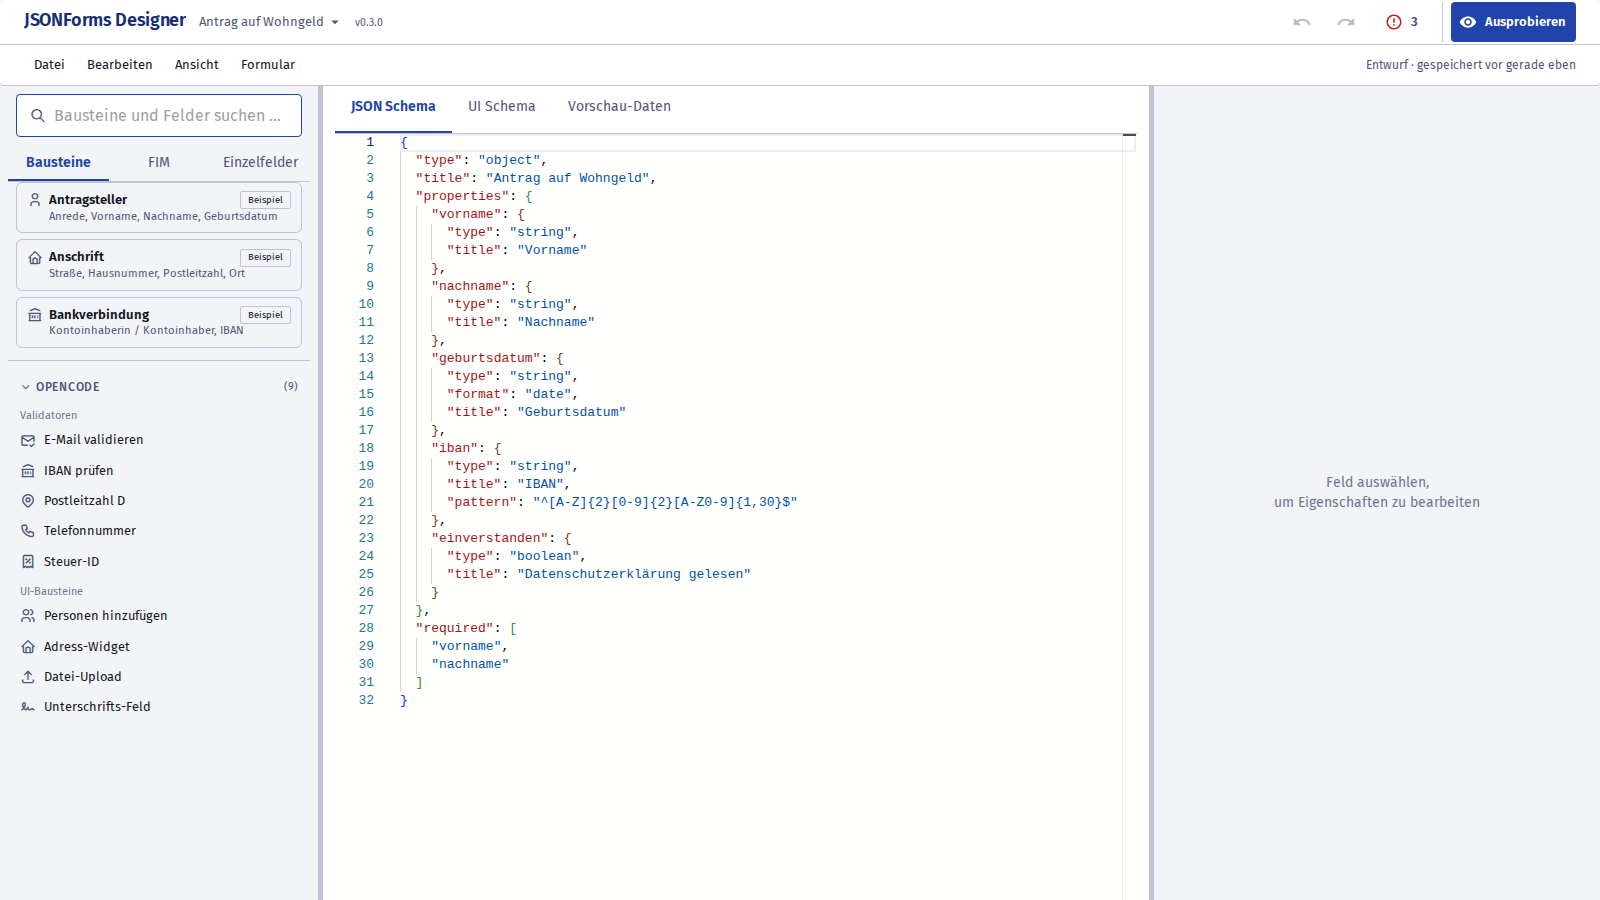
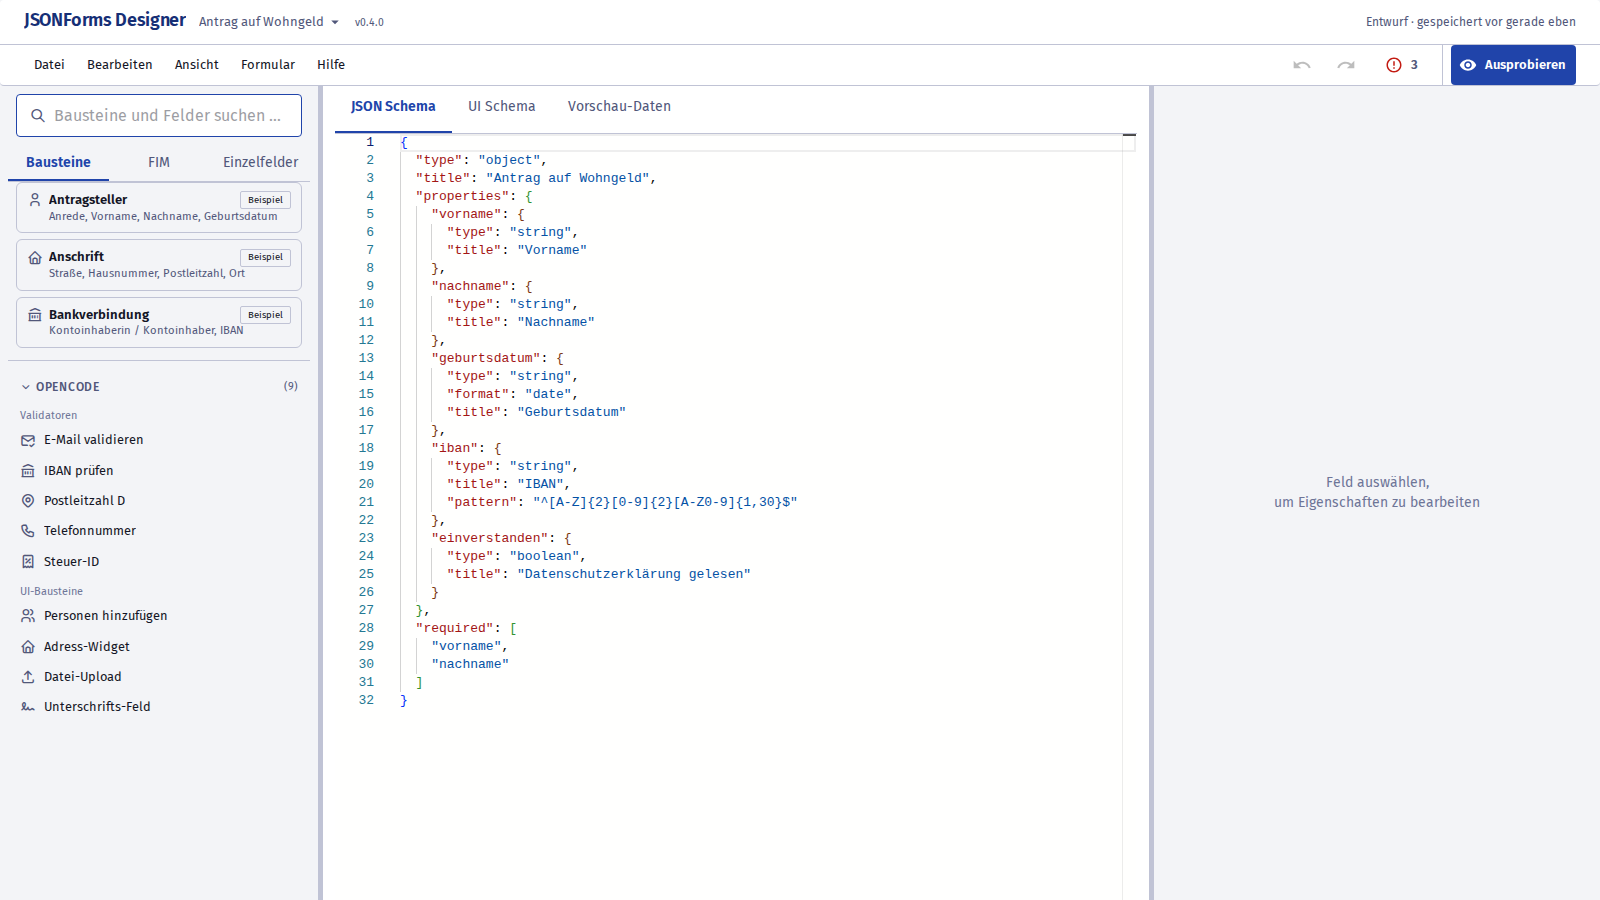
docs: Screenshots neu erzeugt, Befehlsleiste in README und CHANGELOG
Screenshots für Stand 0.4.0 mit dem Playwright-Generator (Chromium)
neu erzeugt. README: Versions- und TypeScript-Badge aktualisiert,
Befehlsleiste mit Hover-Menüs in der Funktionsübersicht. CHANGELOG:
Hover-Menüs unter [Unreleased].

Changed region(s): [[0.8438, 0.0, 1.0, 0.0933], [0.1875, 0.0622, 0.2188, 0.0933]]

diff --git a/README.md b/README.md
@@ -5,10 +5,10 @@
 **Visueller Formular-Editor für JSON Schema & JSONForms UI Schema**
 
 [![License: MIT](https://img.shields.io/badge/license-MIT-blue.svg)](./LICENSE)
-[![Version](https://img.shields.io/badge/version-0.2.0-brightgreen.svg)](./packages/editor/package.json)
+[![Version](https://img.shields.io/badge/version-0.4.0-brightgreen.svg)](./packages/editor/package.json)
 [![Changelog](https://img.shields.io/badge/changelog-📋-lightgrey)](./CHANGELOG.md)
 [![React](https://img.shields.io/badge/React-19-61DAFB?logo=react)](https://react.dev)
-[![TypeScript](https://img.shields.io/badge/TypeScript-5-3178C6?logo=typescript)](https://www.typescriptlang.org)
+[![TypeScript](https://img.shields.io/badge/TypeScript-6-3178C6?logo=typescript)](https://www.typescriptlang.org)
 [![MUI](https://img.shields.io/badge/MUI-7-007FFF?logo=mui)](https://mui.com)
 
 *JSONForms-kompatible Formulare werden ohne Schema-Vorkenntnisse per Drag & Drop erstellt und bearbeitet.*
@@ -40,6 +40,7 @@ JSONForms Designer ist ein React-basierter Formular-Editor, der nach dem **Form-
 | **Formular-Metadaten** | Titel, Behörde, Rechtsgrundlage, Versionsnummer, Gültigkeitsdatum |
 | **Mehrsprachigkeit (Inhalt)** | Feldbezeichnungen, Hilfetexte und Platzhalter werden pro Sprache (EN/FR/PL/TR/AR/UK) hinterlegt |
 | **Modi** | Visuell · Code (Monaco) · Vorschau — alle bidirektional synchronisiert |
+| **Befehlsleiste** | Menüs Datei · Bearbeiten · Ansicht · Formular · Hilfe öffnen beim Überfahren mit der Maus; Klick und Tastatur öffnen ebenso, Escape/Tab schließen |
 | **Persistenz** | Auto-Save in `localStorage`, Export/Import als JSON, XDatenfelder-Export (XDF 2.0), Undo/Redo (50 Schritte) |
 | **Druckansicht** | Print-CSS-Integration, Drucken-Button in der Vorschau-Toolbar |
 | **Vorlagen** | Vorgefertigte Formular-Vorlagen |

diff --git a/CHANGELOG.md b/CHANGELOG.md
@@ -7,6 +7,12 @@ Format nach [Keep a Changelog](https://keepachangelog.com/de/1.0.0/), Versionier
 
 ## [Unreleased]
 
+### Geändert
+- **Befehlsleiste: Menüs öffnen beim Überfahren mit der Maus.** Die Klappen öffnen sich beim Überfahren und schließen, sobald die Maus Knopf und Klappe verlassen hat. Klick und Tastatur öffnen weiterhin (Touch, Bedienung ohne Maus), Escape und Tab schließen. Statt des modalen `Menu`, dessen Backdrop das Überfahren der übrigen Knöpfe blockierte, kommen `Popper` und `MenuList` zum Einsatz.
+
+### Dokumentation
+- README-Screenshots neu erzeugt (Stand 0.4.0); Versions- und TypeScript-Badge aktualisiert.
+
 ---
 
 ## [0.4.0] — 2026-09-29
